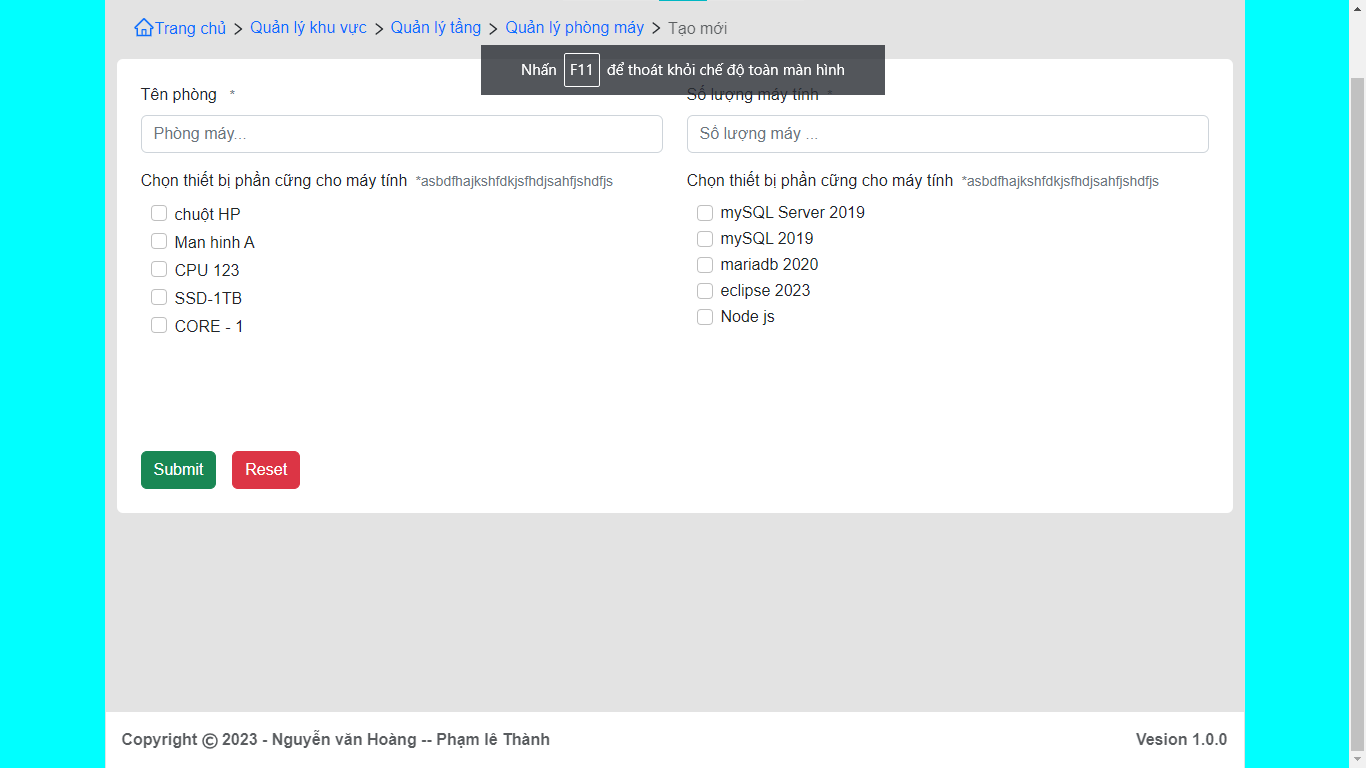
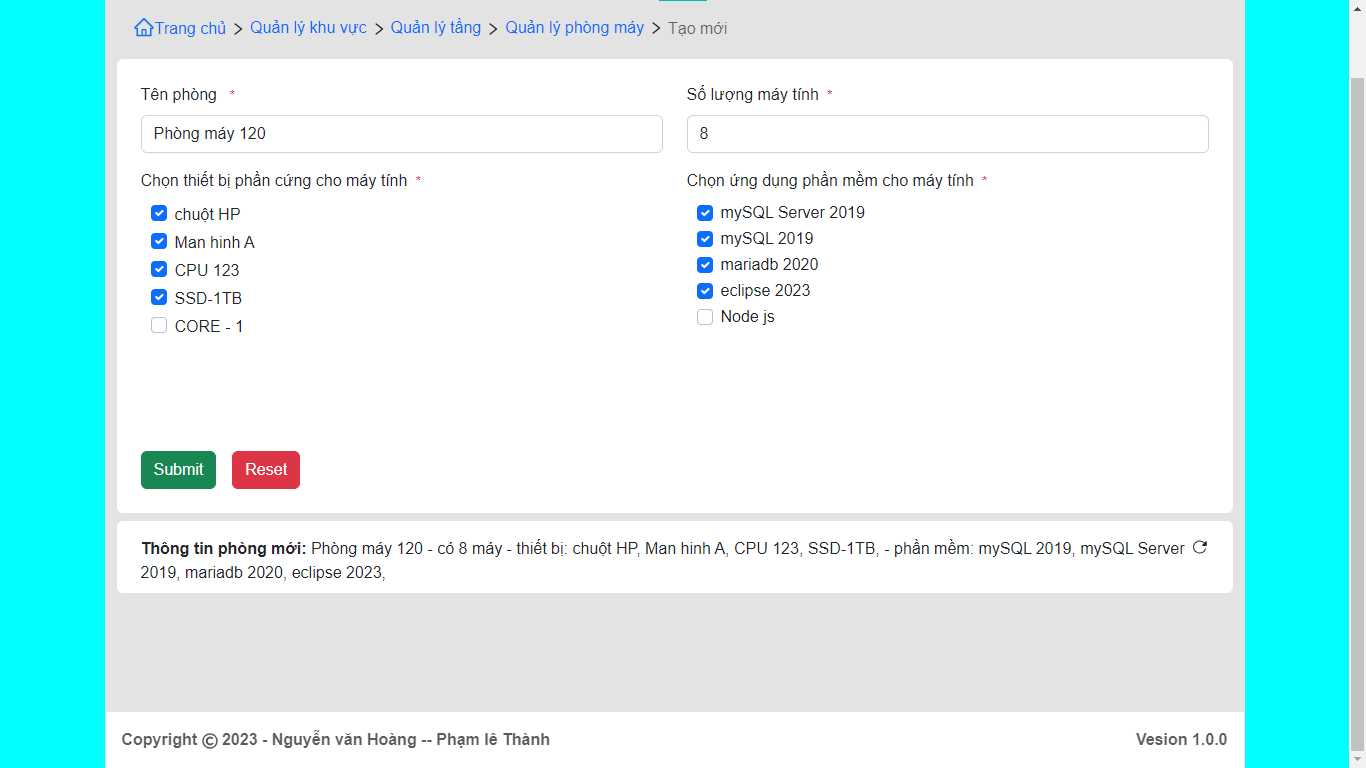
update FormAddPhong fix su kien check box - add dogn note data nhap

diff --git a/src/components/layout/FormAddPhong.jsx b/src/components/layout/FormAddPhong.jsx
@@ -1,7 +1,9 @@
-import React, { useEffect, useState } from "react";
+import React, { useEffect, useRef, useState } from "react";
 import NavTab from "../common/NavTab/NavTab";
 import Footer from "../common/Footer/Footer";
 import Database from "../../util/database/Database";
+
+import { IoReloadOutline } from "react-icons/io5";
 
 /**
  * VD data ở server chưa lấy lên
@@ -23,10 +25,22 @@ const getApiData_PM_TBi = () => {
  *
  */
 export default function FormAddPhong() {
-
-  let [itemPhong, setItemPhong] = useState(
-   {name:'', soLuongMay:'', phanMem:[], phanCung:[]}
-  );
+  //
+  let [btnReload, setBtnReload] = useState(1);
+  // phong err
+  let [errPhong, setErrPhong] = useState({
+    name: "",
+    soLuongMay: "",
+    phanMem: "",
+    phanCung: "",
+  });
+  // phong moi
+  const itemPhongRef = useRef({
+    name: "",
+    soLuongMay: 1,
+    phanMem: [],
+    phanCung: [],
+  });
 
   useEffect(() => {
     if (datalocal_PM.length === 0 && datalocal_TBi.length === 0) {
@@ -36,14 +50,98 @@ export default function FormAddPhong() {
 
   // handle
   //
-  const handleChange = (e) => {
-   console.log("🚀 ~ file: FormAddPhong.jsx:40 ~ FormAddPhong ~ e:", e)
+  const handleCheckTbi = (e) => {
+    var updateList = [...itemPhongRef.current.phanCung];
+    if (e.target.checked) {
+      updateList.push(
+        dataServer_TBi.find((item) => item.idCode === e.target.value)
+      );
+    } else {
+      updateList.splice(
+        dataServer_TBi.find((item) => item.idCode === e.target.value),
+        1
+      );
+    }
+
+    itemPhongRef.current.phanCung = updateList;
   };
-  
+  const handleCheckPM = (e) => {
+    var updateList = [...itemPhongRef.current.phanMem];
+    if (e.target.checked) {
+      updateList.push(
+        dataServer_PM.find((item) => item.idCode === e.target.value)
+      );
+    } else {
+      updateList.splice(
+        dataServer_PM.find((item) => item.idCode === e.target.value),
+        1
+      );
+    }
+
+    itemPhongRef.current.phanMem = updateList;
+    
+  };
+  const handleChangeText = (e) => {
+    let { id, value } = e.target;
+
+    itemPhongRef.current[id] = value;
+    
+  };
   //
   const handleSubmit = (e) => {
     e.preventDefault();
+    
+    if (checkDataInput()) {
+      //true - di tiep
+      alert('Run - ' + itemPhongRef.current.name);
+    }
   };
+  // check data
+  const checkDataInput = () => {
+    let { name, soLuongMay, phanMem, phanCung } = itemPhongRef.current;
+
+    let errName = "";
+    let errPhanMem = "";
+    let errPhanCung = "";
+
+    let check = 1;
+
+    if (name.trim().length === 0) {
+      errName = " Hãy nhập dữ liệu!!";
+      check = 0;
+      //
+    } else {
+      // so sanh khac cua name
+    }
+    //
+    
+    if (phanMem.length === 0) {
+      errPhanMem = " Hãy nhập dữ liệu!!";
+      check = 0;
+      //
+    } else {
+      //
+      // so sanh khac cua phanMem
+    }
+
+    //
+    if (phanCung.length === 0) {
+      errPhanCung = " Hãy nhập dữ liệu!!";
+      check = 0;
+    } else {
+      // so sanh khac cua phanCung
+    }
+
+    setErrPhong({
+      name: errName,
+      phanMem: errPhanMem,
+      phanCung: errPhanCung,
+    });
+
+    return check;
+
+
+  }
 
   // Render
   const renderCheckBox_TBi = () => {
@@ -55,6 +153,7 @@ export default function FormAddPhong() {
             type="checkbox"
             defaultValue={item.idCode}
             id={item.idCode}
+            onChange={handleCheckTbi}
           />
           <label
             className="form-check-label"
@@ -69,23 +168,43 @@ export default function FormAddPhong() {
   };
 
   const renderCheckBox_PM = () => {
-   return datalocal_PM.map((item, index) => {
+    return datalocal_PM.map((item, index) => {
       return (
         <div key={index} className="form-check">
           <input
             className="form-check-input"
             type="checkbox"
-            defaultValue={item}
+            value={item.idCode}
             id={item.idCode}
-            onChange={handleChange()}
+            onChange={handleCheckPM}
           />
           <label className="form-check-label" htmlFor={item.idCode}>
             {item.name}
           </label>
         </div>
       );
-    })
-  }
+    });
+  };
+
+  const renderFooterData = () => {
+    let { name, soLuongMay, phanMem, phanCung } = itemPhongRef.current;
+    let strName = "";
+    let strPM = "";
+    let strTbi = "";
+    if (name.trim() !== "") {
+      strName = `${name} -- có ${soLuongMay} máy `;
+    }
+    if (phanCung.length > 0) {
+      strTbi = "-- thiết bị: ";
+      phanCung.forEach(item => strTbi += `${item.name}, `)
+    }
+    if (phanMem.length > 0) {
+      strPM = "-- phần mềm: ";
+      phanMem.forEach(item => strPM += `${item.name}, `)
+    }
+    let str = "" + strName + strTbi + strPM;
+    return <div className=""><span className='fw-bold'>Thông tin phòng mới: </span>{str}</div>;
+  };
 
   //
   // Mảng quản lý data navtab
@@ -119,19 +238,19 @@ export default function FormAddPhong() {
                     Tên phòng{" "}
                     <small
                       id="errTenPhong"
-                      className="form-text text-muted text-danger mx-2"
+                      className="form-text  text-danger mx-2"
                     >
-                      *
+                      *{errPhong.name}
                     </small>
                   </label>
                   <input
                     type="text"
                     className="form-control"
                     name="txtTenPhong"
-                    id="txtTenPhong"
+                    id="name"
                     aria-describedby="errTenPhong"
                     placeholder="Phòng máy..."
-                    
+                    onChange={handleChangeText}
                   />
                 </div>
                 <div className="mb-3 col">
@@ -139,9 +258,9 @@ export default function FormAddPhong() {
                     Số lượng máy tính
                     <small
                       id="errSoLuongMay"
-                      className="form-text text-muted mx-2 text-danger"
+                      className="form-text mx-2 text-danger"
                     >
-                      *
+                      *{errPhong.soLuongMay}
                     </small>
                   </label>
                   <input
@@ -151,6 +270,10 @@ export default function FormAddPhong() {
                     id="soLuongMay"
                     aria-describedby="errSoLuongMay"
                     placeholder="Số lượng máy ..."
+                    min={1}
+                    max={150}
+                    defaultValue={1}
+                    onChange={handleChangeText}
                   />
                 </div>
               </div>
@@ -160,12 +283,12 @@ export default function FormAddPhong() {
                 {/* checkbox - Tbi */}
                 <div className=" col">
                   <label htmlFor="soLuongMay" className="form-label">
-                    Chọn thiết bị phần cững cho máy tính
+                    Chọn thiết bị phần cứng cho máy tính
                     <small
                       id="errSoLuongMay"
-                      className="form-text text-muted mx-2 text-danger"
+                      className="form-text mx-2 text-danger"
                     >
-                      *asbdfhajkshfdkjsfhdjsahfjshdfjs
+                      *{errPhong.phanCung}
                     </small>
                   </label>
                   <div
@@ -200,12 +323,12 @@ export default function FormAddPhong() {
                 {/* checkbox - PM */}
                 <div className="col">
                   <label htmlFor="soLuongMay" className="form-label">
-                    Chọn thiết bị phần cững cho máy tính
+                    Chọn ứng dụng phần mềm cho máy tính
                     <small
                       id="errSoLuongMay"
-                      className="form-text text-muted mx-2 text-danger"
+                      className="form-text  mx-2 text-danger"
                     >
-                      *asbdfhajkshfdkjsfhdjsahfjshdfjs
+                      *{errPhong.phanMem}
                     </small>
                   </label>
                   <div
@@ -217,8 +340,6 @@ export default function FormAddPhong() {
                     }}
                   >
                     {renderCheckBox_PM()}
-
-
                   </div>
                 </div>
               </div>
@@ -231,6 +352,17 @@ export default function FormAddPhong() {
                 Reset
               </button>
             </form>
+          </div>
+
+          <div className=" bg-white px-4 py-2 pt-3 rounded text-dark mt-2 d-flex justify-content-between ">
+            {renderFooterData()}
+            <IoReloadOutline
+              className="btn_moune " style={{width:'20px'}}
+              onClick={() => {
+                setBtnReload(btnReload + 1);
+              }}
+              size={20}
+            />
           </div>
         </div>
 

diff --git a/src/util/database/Database.js b/src/util/database/Database.js
@@ -123,21 +123,21 @@ const dataTang = [
 
 //8.	Thiết bị (mã thiết bị, tên thiết bị, trạng thái, ngày cài đặt, tuổi thọ)
 const dataThietBi = [
-  {id:1, idCode:"TBi001", name:'chuột HP', status:1, ngaySuDung: date1, tuoiTho:36 },
-  {id:2, idCode:"TBi002", name:'Man hinh A', status:1, ngaySuDung: date1, tuoiTho:Math.floor(Math.random() * 24) + 12 },
-  {id:3, idCode:"TBi003", name:'CPU 123', status:1, ngaySuDung: date1, tuoiTho:Math.floor(Math.random() * 24) + 12 },
-  {id:4, idCode:"TBi004", name:'SSD-1TB', status:1, ngaySuDung: date1, tuoiTho:Math.floor(Math.random() * 24) + 12 },
-  {id:5, idCode:"TBi005", name:'CORE - 1', status:1, ngaySuDung: date1, tuoiTho:Math.floor(Math.random() * 24) + 12 },
+  {id:1, idCode:"TBi001", name:'chuột HP', status:1, ngaySuDung: date1(), tuoiTho:36 },
+  {id:2, idCode:"TBi002", name:'Man hinh A', status:1, ngaySuDung: date1(), tuoiTho:Math.floor(Math.random() * 24) + 12 },
+  {id:3, idCode:"TBi003", name:'CPU 123', status:1, ngaySuDung: date1(), tuoiTho:Math.floor(Math.random() * 24) + 12 },
+  {id:4, idCode:"TBi004", name:'SSD-1TB', status:1, ngaySuDung: date1(), tuoiTho:Math.floor(Math.random() * 24) + 12 },
+  {id:5, idCode:"TBi005", name:'CORE - 1', status:1, ngaySuDung: date1(), tuoiTho:Math.floor(Math.random() * 24) + 12 },
 ]
 
 //4.	Phần mềm (mã phần mềm, tên phần mềm, trạng thái, ngay bd, tuoitho  )
 
 const dataPhanMem = [
-  {id:1, idCode:'PM001', name:'mySQL Server 2019', status:1, ngaySuDung:date1,tuoiTho:Math.floor(Math.random() * 24) + 12  },
-  {id:2, idCode:'PM002', name:'mySQL 2019', status:1, ngaySuDung:date1,tuoiTho:Math.floor(Math.random() * 24) + 12  },
-  {id:3, idCode:'PM003', name:'mariadb 2020', status:1, ngaySuDung:date1,tuoiTho:Math.floor(Math.random() * 24) + 12  },
-  {id:4, idCode:'PM004', name:'eclipse 2023', status:1, ngaySuDung:date1,tuoiTho:Math.floor(Math.random() * 24) + 12  },
-  {id:5, idCode:'PM005', name:'Node js', status:1, ngaySuDung:date1,tuoiTho:Math.floor(Math.random() * 24) + 12  },
+  {id:1, idCode:'PM001', name:'mySQL Server 2019', status:1, ngaySuDung:date1(),tuoiTho:Math.floor(Math.random() * 24) + 12  },
+  {id:2, idCode:'PM002', name:'mySQL 2019', status:1, ngaySuDung:date1(),tuoiTho:Math.floor(Math.random() * 24) + 12  },
+  {id:3, idCode:'PM003', name:'mariadb 2020', status:1, ngaySuDung:date1(),tuoiTho:Math.floor(Math.random() * 24) + 12  },
+  {id:4, idCode:'PM004', name:'eclipse 2023', status:1, ngaySuDung:date1(),tuoiTho:Math.floor(Math.random() * 24) + 12  },
+  {id:5, idCode:'PM005', name:'Node js', status:1, ngaySuDung:date1(),tuoiTho:Math.floor(Math.random() * 24) + 12  },
 ]
 
 export default { dataKhuVuc,dataPhongMay,dataTang,dataThietBi,dataPhanMem };

diff --git a/README.md b/README.md
@@ -19,9 +19,10 @@
     - can tang khoang cach giua component - z (dang ep cứng khoang cach)
     - can lay va chuyen data qu cac man hinh - z
     - overFlow -z 
+    - FormAddPhong - chua bat su kien cua checkbox - z
+    - thêm phong phải them dược cac so may - so thiet bị - so phan mem -z
 
     - tìm kiếm -  detailKhuVuc chưa có gì
     - PageQLPhongMay - can 1 search theo status
     - Đăng nhập thêm checkbox - Đăng nhập với quyền quản lý 
-    - thêm phong phải them dược cac so may - so thiet bị - so phan mem
-    - FormAddPhong - chua bat su kien cua checkbox
+    - FormAddPhong - can checkbox ALL
